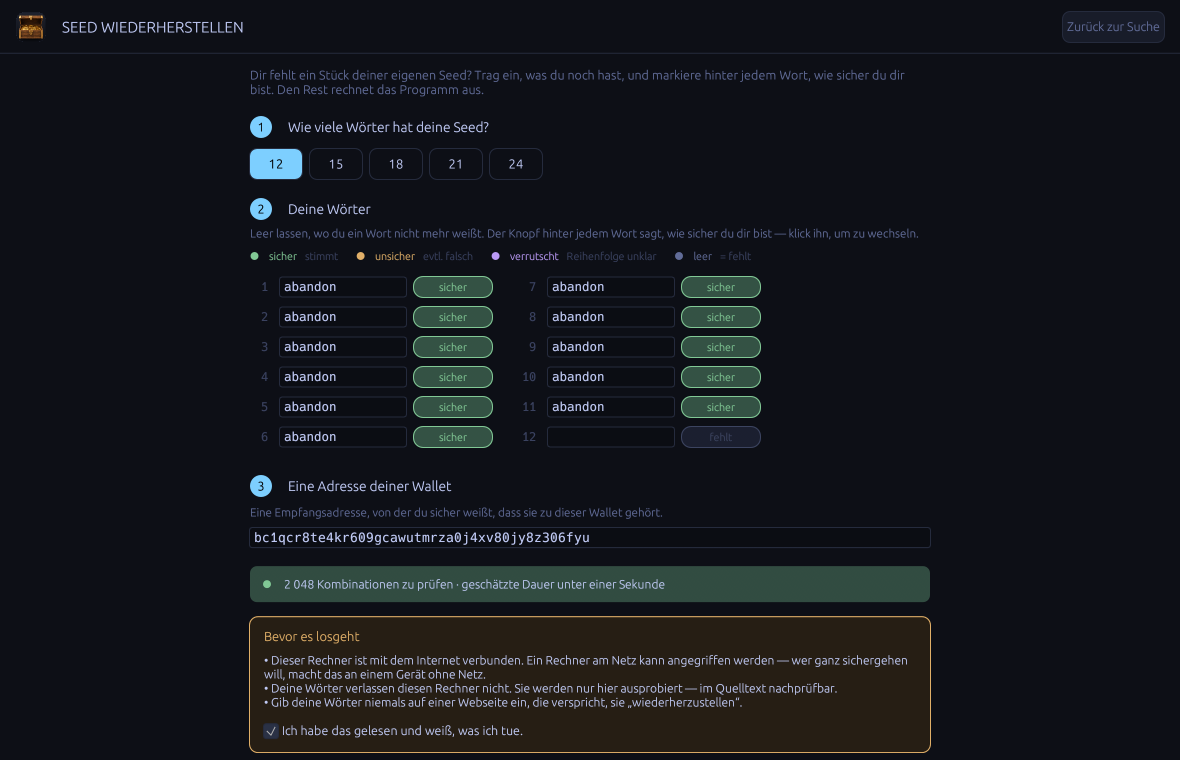
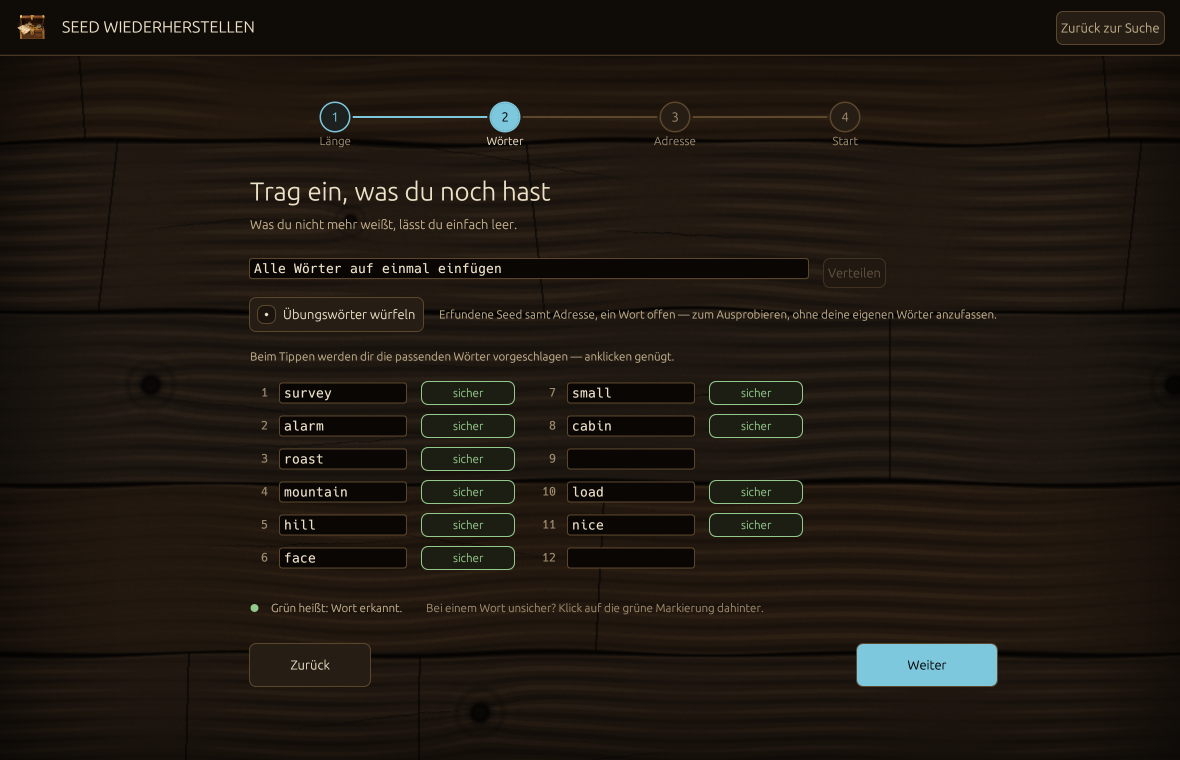
Photograph the window as it looks now, and count the tests again
The three screenshots in the README were taken before the window had a look of
its own: they show the flat night palette, the old dashboard, and the recovery
form pinned to the top of the screen. Anyone arriving at the repository judged
the program by a picture of a program that no longer exists.

Retaken from the release build, in the shipped `walnut` palette, through the
same `--screenshot` switches the pictures have always come from, at the same
size as before. The release build matters: a debug build would have put its own
much slower rate on the dashboard, and that number is quoted as a measurement.

The test count said 112. There are 228, and every test named underneath it
still exists -- checked by name, not assumed.

diff --git a/README.md b/README.md
@@ -121,15 +121,31 @@ Ohne Argumente startet das Programm im Terminal. Unter macOS öffnet der
 Doppelklick auf das App-Bundle ein Fenster; auf allen Systemen erzwingt `--gui`
 das Fenster.
 
+Im Fenster **rechnet zunächst nichts**. Es öffnet auf einer Gabelung — Suche oder
+Seed-Rettung —, und auch dahinter fängt die Suche erst an, wenn du den Knopf
+„Suche starten" drückst oder die Leertaste. Was Rechenzeit und Strom kostet,
+läuft auf Ansage und nicht von selbst.
+
 ## Bedienung
 
-| | |
+| Taste | Wirkung |
 | --- | --- |
 | Leertaste, Knopf START/STOPP | Suche anhalten und fortsetzen |
 | ↑ ↓, Klick auf einen Treffer | Treffer auswählen |
-| q, Esc | Beenden |
+| ⌘ , (Strg + ,) | Einstellungen auf- und zuklappen |
+| Esc | Zurück: erst das Wort-Feld, dann Einstellungen oder Seed-Rettung |
+| beliebige Taste im Vorspann | Vorspann überspringen |
+| ⌘ Q (Alt + F4) | Beenden |
 
-Ein ausgewählter Treffer zeigt seine Wörter nummeriert im rechten Feld.
+Solange in einem Feld getippt wird, gehören alle Tasten dem Feld — eine
+Leertaste im Seed-Wort landet im Wort und hält nicht die Suche an. Ein
+einzelnes `q` beendet nichts: dafür gibt es den Weg, den das Betriebssystem
+ohnehin kennt.
+
+Rechts steht das **Fundfach**: dort erscheint eine gefundene Wallet mit ihrem
+Guthaben, und ein Klick auf die Zeile klappt die Wörter nummeriert darunter auf.
+Solange nichts gefunden ist — also immer — steht dort, was dort stünde, und der
+Probealarm.
 
 ## Wortlänge
 
@@ -144,7 +160,9 @@ Einstellungen, **im laufenden Betrieb**, ohne Neustart:
 | 21 | 224 Bit | 2²²⁴ |
 | 24 | 256 Bit | 2²⁵⁶ |
 
-Dauerhaft über `word_count` in der `config.toml` oder `--words 12` beim Start.
+**Voreingestellt sind 12 Wörter** — die Länge, die fast jede Wallet ausgibt.
+Dauerhaft ändern über `word_count` in der `config.toml` oder `--words 24` beim
+Start.
 
 Jede Stufe kürzer sind drei Wörter weniger und damit ein 4-Milliarden-fach
 kleinerer Raum. **An der Aussichtslosigkeit ändert das nichts** — und an der
@@ -253,9 +271,17 @@ wiederherstellst — du hast die meisten Wörter, dir fehlt nur ein Teil —, is
 der Raum klein genug, dass ein Treffer nicht nur möglich, sondern wahrscheinlich
 ist.
 
-**Am einfachsten im Fenster:** Knopf **„Seed retten"**. Dort wählst du die
-Wortanzahl, trägst deine Wörter in einzelne Felder ein und markierst hinter
-jedem Wort, wie sicher du dir bist:
+**Am einfachsten im Fenster:** Knopf **„Seed retten"**. Es führt in vier
+Schritten durch die Sache, eine Frage pro Bild, und man kann jederzeit zurück:
+
+| | Schritt | Frage |
+| --- | --- | --- |
+| 1 | **Länge** | Wie viele Wörter hat deine Seed? |
+| 2 | **Wörter** | Trag ein, was du noch hast |
+| 3 | **Adresse** | Kennst du eine Adresse deiner Wallet? (freiwillig) |
+| 4 | **Start** | Wie stark soll der Rechner arbeiten? |
+
+Hinter jedem Wort sagt ein Knopf, wie sicher du dir bist:
 
 | Markierung | Bedeutung | Suchaufwand |
 | --- | --- | --- |
@@ -264,9 +290,60 @@ jedem Wort, wie sicher du dir bist:
 | **verrutscht** (violett) | Reihenfolge unklar | k! je zusammenhängender Gruppe |
 
 Die Markierungen lassen sich **kombinieren** — zwei fehlende Wörter und ein
-vertauschtes Paar sind eine einzige Suche. Unter den Feldern steht live, wie
-groß der Raum ist und wie lange es schätzungsweise dauert. Ist der Raum zu
-groß, sagt das Programm es, statt eine aussichtslose Suche zu starten.
+vertauschtes Paar sind eine einzige Suche. Im letzten Schritt steht, wie groß
+der Raum ist und wie lange es schätzungsweise dauert.
+
+**Vorher gefahrlos ausprobieren:** auf Schritt 2 steht ein Würfel,
+**„Übungswörter würfeln"**. Er setzt eine erfundene Seed samt passender Adresse
+ins Formular und lässt ein Wort offen — damit läuft der ganze Ablauf einmal
+durch und endet mit genau dieser Seed als Treffer. Ein Streifen über dem
+Formular sagt die ganze Zeit, dass es Übungsdaten sind. Gespeichert und gemeldet
+wird dabei nichts: mit einer Zieladresse prüft die *Suche* keine Guthaben, also
+kommt auch kein Eintrag in `hits.txt`. Auch der Kontostand-Knopf bleibt bei
+einem Übungslauf weg — eine erfundene Adresse an einen fremden Dienst zu schicken
+hat keinen Zweck. Man lernt die Bedienung damit **vor** dem Ernstfall statt in
+ihm.
+
+**Keine Größe wird abgelehnt.** Vier fehlende Wörter sind siebzehn Billionen
+Möglichkeiten, die niemand zu Ende rechnet — das Programm sagt genau das und
+startet trotzdem, wenn du es willst. Wie eine aussichtslose Suche aussieht, ist
+schließlich das Thema dieses Programms. Nur ein *zusammenhängender* Block
+verrutschter Wörter ist auf acht begrenzt, und das aus Speichergründen: ihre
+Reihenfolgen werden als Liste erzeugt, und k! wächst schneller als jeder
+Arbeitsspeicher.
+
+### Die Adresse ist freiwillig
+
+| | Was passiert |
+| --- | --- |
+| **mit Adresse** | Am Ende bleibt genau die eine Seed übrig, die zu dieser Wallet gehört. |
+| **ohne Adresse, wenige Möglichkeiten** | Du bekommst sie aufgelistet, jede mit ihrer ersten Adresse zum Vergleichen. |
+| **ohne Adresse, viele Möglichkeiten** | Jede mögliche Seed wird gegen die Adress-Datenbank geprüft. Findet sich eine Wallet **mit Guthaben**, bekommst du Wörter und Betrag — gespeichert wie ein regulärer Fund, mit Sicherungskopie und Benachrichtigung. |
+
+Leere Wallets werden dabei weder gespeichert noch gemeldet: Adress-Auszüge sind
+voll von Adressen, die längst leergeräumt sind, und ein Alarm für einen
+Kontostand von null ist ein Fehlalarm.
+
+> Das setzt eine **echte** Adress-Datenbank voraus. Mit der Übungs-Liste aus
+> `synth-db` findet diese Suche garantiert nichts — darin stehen nur
+> Zufallsadressen, die niemandem gehören. Siehe `build-db`.
+
+**Beim Eintippen hilft das Fenster mit:**
+
+* Wer seine Wörter schon irgendwo stehen hat, fügt sie **alle auf einmal** ein
+  und drückt „Verteilen"; `?` steht für ein fehlendes Wort. Passt die Anzahl zu
+  einer Seed-Länge, stellt sich das Formular selbst darauf um.
+* Während getippt wird, stehen unter dem Feld die **passenden BIP-39-Wörter**
+  zum Anklicken — 2048 Wörter muss niemand auswendig können.
+* Hinter jedem Feld sagt ein Punkt, wie das Wort gelesen wurde: grün heißt
+  „steht genau so auf der Liste", rot heißt „steht nicht drauf".
+* Steht dort ein **gelber Punkt mit einem anderen Wort**, dann hat das Programm
+  etwas anderes verstanden, als du geschrieben hast. Vier Buchstaben genügen
+  nämlich, um ein BIP-39-Wort eindeutig zu bestimmen — aus `aban` wird
+  `abandon`, und aus dem Vertipper `abandonn` eben auch. Das ist gewollt, aber
+  du sollst es sehen und nicht raten müssen.
+
+![Schritt 2 der Seed-Wiederherstellung: die Schrittleiste oben, das Feld zum Einfügen aller Wörter, und die Wortfelder mit Rückmeldung je Wort.](docs/recover.png)
 
 Fürs Terminal gibt es dasselbe kompakter — `?` für ein fehlendes Wort, ein
 angehängtes `*` für ein unsicheres:
@@ -284,25 +361,59 @@ Ein bewusst *nicht* angebotener Fall ist die freie Umsortierung aller Wörter:
 24 Wörter lassen sich 6·10²³-fach anordnen — das ist wieder Collider-Gebiet,
 und die eingebaute Obergrenze lehnt es ab.
 
-**Sicherheit:** Für das Prüfen des Kontostands und das spätere Benutzen der
-Seed muss der Rechner am Netz sein — ein Risiko, das die Warnung ausspricht.
-Die Wörter selbst verlassen den Rechner nie; sie werden nur lokal
-durchprobiert, nachprüfbar in `src/recover.rs`.
+**Sicherheit:** Für das spätere Benutzen der Seed muss der Rechner am Netz sein
+— ein Risiko, das die Warnung ausspricht. Die Wörter selbst verlassen den
+Rechner nie; sie werden nur lokal durchprobiert, nachprüfbar in
+`src/recover.rs`.
+
+**Kontostand.** Nach einem Fund steht dort, was die lokale Adressliste über die
+Wallet weiß — kostenlos und ohne Netz. Weil diese Liste aber nur die Adressen
+kennt, die du geladen hast, ist „steht nicht drin" dort die normale Antwort und
+heißt **nicht** „leer". Für die echte Zahl gibt es einen Knopf
+**„Kontostand online prüfen"**. Der schickt die ersten Adressen der Wallet — und
+nur die, niemals die Wörter — an den Dienst aus `[balance] api`, voreingestellt
+`mempool.space`. Bei einem Übungslauf gibt es ihn nicht. Wer einen eigenen Node
+hat, trägt ihn dort ein; dann sieht niemand sonst, welche Adressen nachgeschaut
+wurden.
+
+Von allein läuft die Abfrage nur, wenn du das **vorher** erlaubt hast: auf dem
+letzten Schritt vor dem Start steht dafür ein Häkchen, samt der Angabe, an
+welchen Dienst die Adressen dann gehen. Ohne Haken bleibt es beim Knopf. Die
+Frage steht dort und nicht auf dem Ergebnisbildschirm, weil sie vorher noch
+eine Entscheidung ist — neben einer gerade zurückgeholten Wallet wäre sie nur
+noch eine Mitteilung.
+
+Gesucht wird nach dem **Gap-Limit**: je Ableitungsschema so weit, bis zwanzig
+leere Adressen hintereinander kommen. Das ist die Zahl aus BIP-44 und das, was
+ein Wallet-Programm tut — Geld auf Adresse sieben wird also gefunden. „Alle"
+Adressen gibt es nicht, je Kette sind gut zwei Milliarden möglich; darum steht
+unter der Zahl, wie viele tatsächlich angesehen wurden.
 
 ## Wohin ein Treffer geht
 
 Die Reihenfolge ist ein Haltbarkeitsversprechen, kein Stilmittel:
 
-1. Vollständiger Datensatz nach `hits.jsonl` — Wörter, Entropie, privater
-   Schlüssel, Pfad, Adresse, Betrag, Zeitstempel, Rechnername.
+1. Vollständiger Datensatz nach `hits.txt` — Wörter, Entropie, privater
+   Schlüssel, Pfad, Adresse, Betrag, Zeitstempel, Rechnername. Eine **schlichte
+   Textdatei** mit beschrifteten Zeilen, kein Datenformat: wer sie öffnet, tut
+   das genau einmal im Leben und soll dann seine Wörter lesen können, nicht
+   geschweifte Klammern. Ältere Fassungen schrieben `hits.jsonl`; die Datei
+   wird weiterhin mitgelesen, auch gemischt mit neuen Einträgen.
 2. Rechte auf 0600, dann `F_FULLFSYNC` auf die Datei **und** ein `fsync` auf das
    Verzeichnis. Unter macOS lässt `fsync(2)` die Daten im flüchtigen
    Schreibpuffer der SSD; `F_FULLFSYNC` ist die einzige echte Barriere.
-3. Zweite Kopie nach `hits_backup.jsonl` (am besten auf ein anderes Laufwerk).
-4. Rote Zeile in der Oberfläche, Wörter im Klartext.
-5. Terminal-Glocke.
-6. *Erst danach* die Benachrichtigungskette.
-7. Die Suche läuft weiter.
+3. Zweite Kopie nach `hits_backup.txt` (am besten auf ein anderes Laufwerk).
+4. Im Fenster: ein Band quer über den Bildschirm, ein Ton, und das Symbol im
+   Dock hüpft, bis du hinschaust. Die Wörter erscheinen **erst auf Klick** —
+   nicht von selbst, damit sie nicht ungefragt auf einem geteilten Bildschirm
+   stehen. Im Terminal stattdessen die Glocke.
+5. *Erst danach* die Benachrichtigungskette — Systemmeldung mit Ton, und was
+   sonst in `config.toml` eingeschaltet ist.
+6. Die Suche läuft weiter.
+
+Ob du das nachts mitbekämst, musst du nicht glauben: der Knopf **Probealarm**
+im Fundfach löst genau diese Meldung einmal aus. Er speichert nichts und legt
+keinen Eintrag an.
 
 ## Der Seed verlässt den Rechner nie
 
@@ -382,7 +493,7 @@ Gemessen gegen 5 Mio. Einträge: 2 Fehlalarme auf 2,39 Mio. Abfragen (8,4e-7) be
 cargo test --release
 ```
 
-112 Tests. Die tragenden:
+228 Tests. Die tragenden:
 
 * BIP-39/32/44/49/84-Ableitung gegen die Referenzbibliotheken `bitcoin` und
   `bip39` über zufällige Seeds, plus die veröffentlichten Testvektoren.
@@ -405,6 +516,13 @@ Jeder Commit wird unter Linux, macOS und Windows gebaut, getestet und geprüft.
 ## Lizenz
 
 MIT. Siehe [LICENSE](LICENSE).
+
+Die Wortmarke im Fenster ist in **Ubuntu Bold** gesetzt
+(`assets/Ubuntu-Bold.ttf`, © Canonical Ltd.), mitgeliefert unter der Ubuntu
+Font Licence 1.0 — der Text liegt als
+[assets/UBUNTU-FONT-LICENCE.txt](assets/UBUNTU-FONT-LICENCE.txt) daneben, weil
+diese Lizenz verlangt, dass sie mit der Schrift reist. Alles andere ist in den
+Schriften gesetzt, die egui selbst mitbringt.
 
 ---
 
